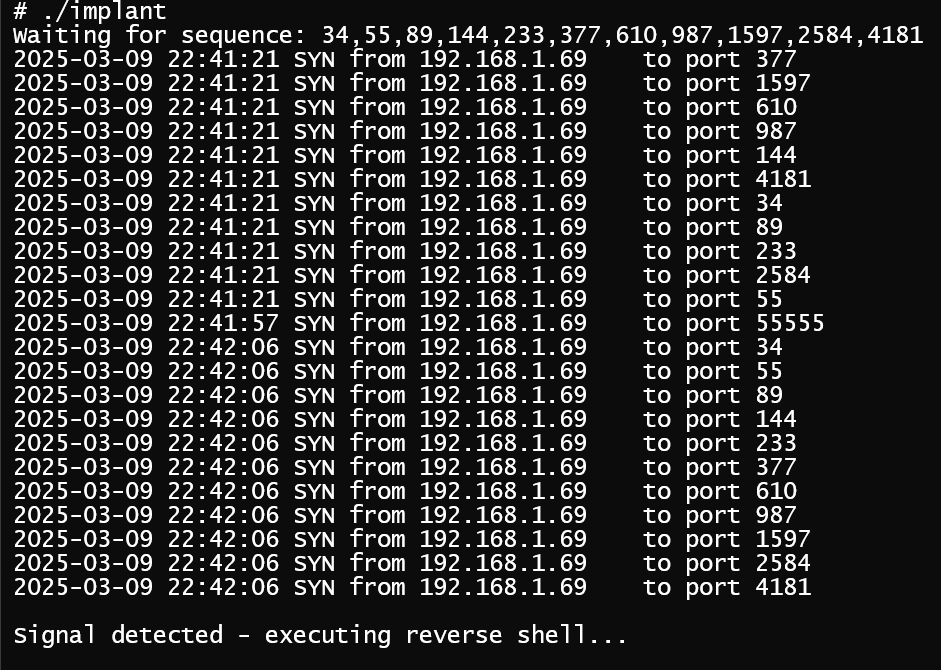
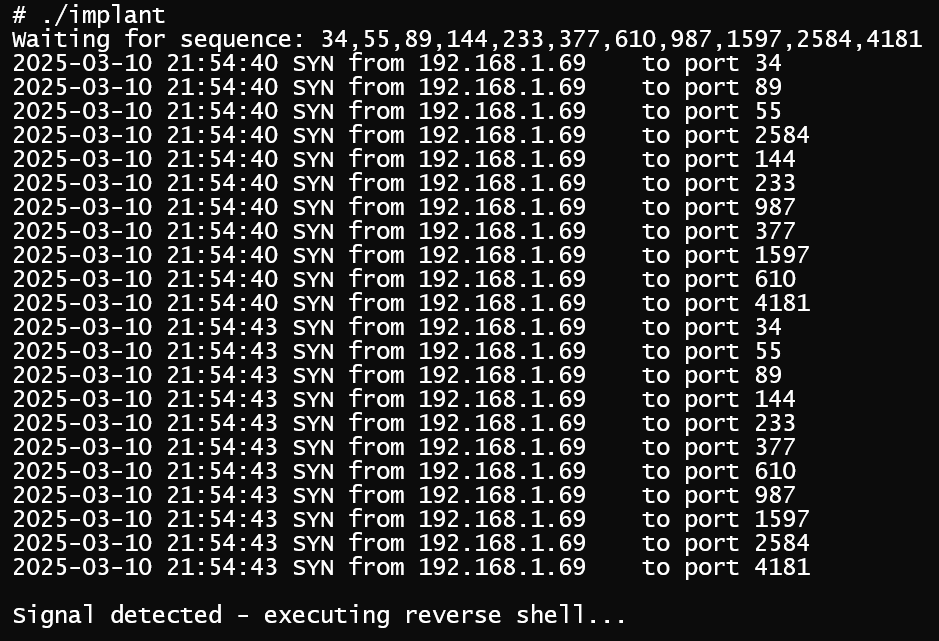
asdf

Changed region(s): [[0.0, 0.0, 0.9883, 0.9048], [0.278, 0.936, 0.6486, 0.9984], [0.0, 0.936, 0.2471, 0.9984]]

diff --git a/_posts/2025-03-02-trafficsignaling.md b/_posts/2025-03-02-trafficsignaling.md
@@ -19,15 +19,22 @@ An adversary compromises a system in a target environment and is able to execute
 
 Packets may be sent from another compromised system, like an [internal proxy](https://attack.mitre.org/techniques/T1090/001/), or from attacker infrastructure if the implanted device is externally facing. The running process monitors inbound traffic for signals. The traffic signals may instruct the malware to do something that network defenses look for, like initiatiating a shell with C2. 
 
-One way to monitor for incoming connections is by inspecting Netstat output periodically, but spawning a child process can be suspicious. This also limits the implant to only fully established connections without the ability to inspect the frame headers or data. If the malware has administrative priviliges, it can monitor all inbound traffic on the system using pcap libraries like `npcap` on Windows or `libpcap` on Linux or create raw sockets. This includes ports in-use by other programs, allowing the signals to blend in with standard traffic like SSH, HTTP, and SMB.
+One way to monitor for incoming connections is by inspecting Netstat output periodically, but spawning a child process can be suspicious. This also limits the implant to only fully established connections without the ability to inspect the frame headers or data. If the malware has administrative priviliges, it can monitor all inbound traffic on the system using pcap libraries like `npcap` on Windows or `libpcap` on Linux or create raw sockets. This includes ports in use by other programs, allowing the signals to blend in with standard traffic like SSH, HTTP, or SMB.
 
 ### Port Knocking
 
-One method adversaries have used to signal to the listening malware is using Port Knocking, which involves sending a predefined sequence of packets to different ports on the compromised system. 
+One method adversaries have used to signal to the listening malware is Port Knocking, which involves sending a predefined sequence of packets to different ports on the compromised system. In the example below, a program uses `libpcap` to monitor incoming packets on the local network interface. If ten SYN packets arrive at increasing fibonacci port numbers from the the same source IP address in the span of 60 seconds, a "reverse shell" is spawned.
+
+{% include image.html url="/images/trafficsignaling/nmap_portknocking.png" description="Two Nmap scans are initiated from another system - the first with a random Nmap scan order (default), and the second with 10 sequential fibonacci port numbers (using the -r flag)" percentage="80" %}
+{% include image.html url="/images/trafficsignaling/portknocking.png" description="The implant is triggered when it detects the correct order" percentage="80" %}
+
 
 ### Socket Filters
 
-Another way to send signals is by filtering for crafted packets with unusual characteristics or "magic bytes" embedded in the data. The payload can contain different instructions, allowing for additional control.
+Another way to send signals is by filtering for crafted packets with unusual characteristics or "magic bytes" embedded in the data. The payload may carry different signals, allowing additional control.
+
+___pick excerpt from filter___
+___create scapy program to send to filter___
 
 ### Defensive Measures
 
